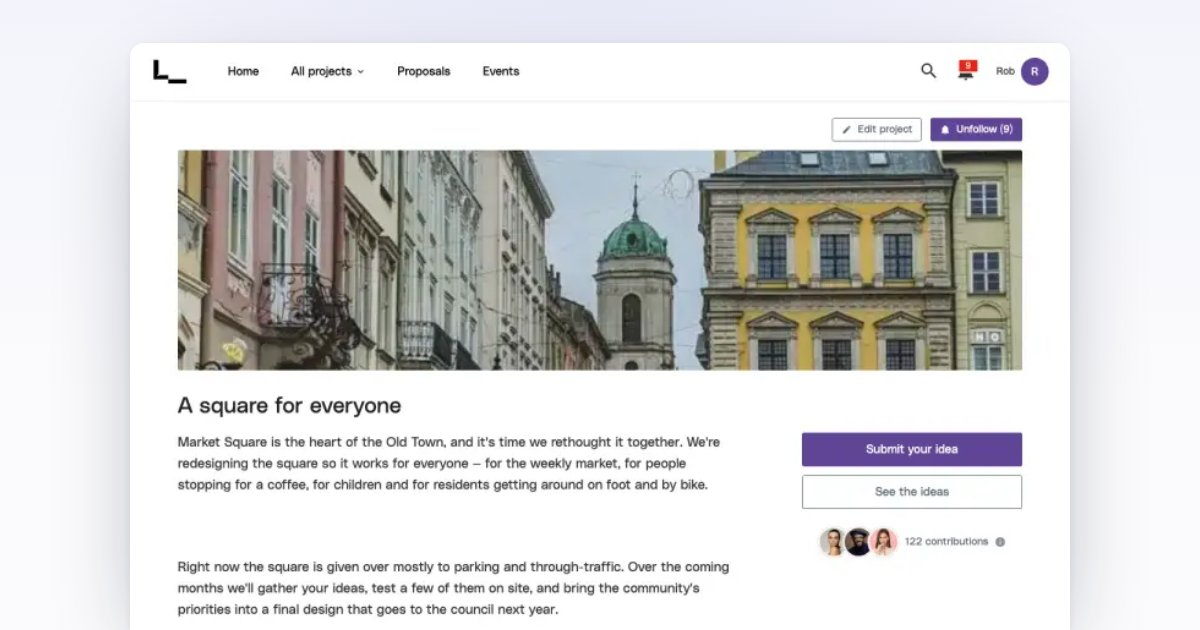
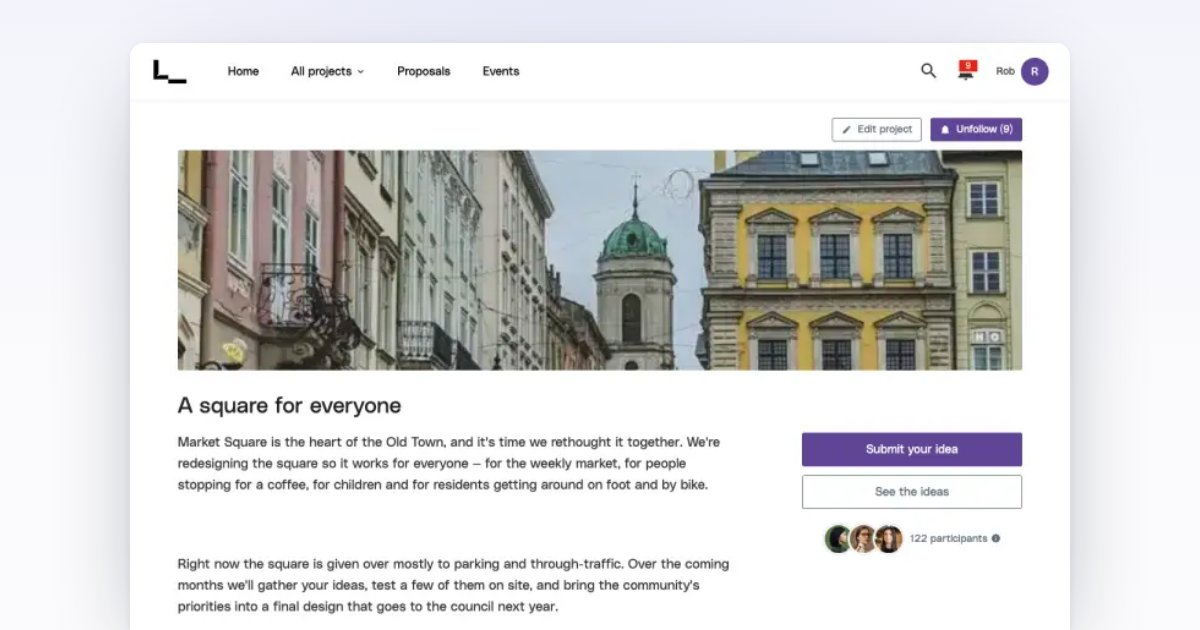
fix drift for good: converge project-page pbox onto the registry; per-widget INV-7; drop dead FO renderer
Root cause of the round-3 audit's D-1: pages/project-page hand-authored its hero
participation-box — a second copy of the widget — so when canonical changed (added
gv-pbox--dir-a, the "participants" label, cb-pbox__info) the copy silently drifted to
"122 contributions" / no --dir-a / gv-pinfo. Fix is to consume the single source of
truth so it CAN'T drift:

- project-page hero pbox now renders via GVWidgets.project.foBlock('participation-box', …)
  with the project's two actions + count as the model. Method buttons keep the page's
  #ideas anchors via a new additive `href` on pbBtn (default '#', so verify:all is
  byte-identical — 125 green · 11 red · 17 skipped, unchanged).
- INV-7 (lint) is now PER-WIDGET: each content-widget signature must have its registry
  type consumed; a signature present but unconsumed warns — catching the partial-
  convergence gap the old binary check missed (it passed any page with ≥1 GVWidgets ref).
  gv-stepper/timeline excluded (the phase ribbon legitimately reuses the primitive).
- back-office-test: deleted the dead phoneFO()/phoneBuilt() (the old hand-built FO
  preview incl. the "Be the first to take part" markup — no call sites; the phone is the
  canonical-renderer iframe) and fixed two stale comments. v3 untouched (its phoneFO is
  the live pre-seed fallback).

Canonical govocal-widgets.js re-synced to both prototype copies (INV-1). Lint ✓,
verify:all unchanged, project-page re-shot. 0 console errors on every surface.

Changed region(s): [[0.1542, 0.8746, 0.6167, 0.9952], [0.6783, 0.8143, 0.8325, 0.9048]]

diff --git a/parallel-participation/prototypes/back-office-test/index.html b/parallel-participation/prototypes/back-office-test/index.html
@@ -4414,149 +4414,6 @@
   const _timelineCardOriginal = null;
   const _activitiesCardOriginal = null;
 
-  // ── Phone preview = a real GoVocal mobile FRONT-OFFICE project page, built from the
-  //    canonical gv-* components (hero, gv-title, gv-participants/gv-avatars, gv-btn CTA,
-  //    gv-projdesc, gv-accordion, gv-stepper phases, gv-event-card), themed via ?theme=.
-  //    'empty' = ghost build-it placeholders; 'few'/'complex' = light vs rich real project.
-  function phoneFO(state) {
-    const complex = state === 'complex';
-    const acc = (q, a, open) => `<details class="gv-acc__item"${open ? ' open' : ''} onclick="event.stopPropagation()">
-        <summary class="gv-acc__head"><span class="gv-acc__q">${q}</span><span class="gv-acc__chev" data-gv-icon="chevron-right" aria-hidden="true"></span></summary>
-        <div class="gv-acc__body"><p>${a}</p></div>
-      </details>`;
-    const ev = (m, d, title, time, place, icon, regs, img) => `<article class="gv-event-card pp-fo__event">
-        <div class="gv-event-card__media pp-fo__evmedia">
-          <img src="assets/img/${img}" alt="" loading="lazy" />
-          <span class="gv-event-card__date"><span class="m">${m}</span><span class="d">${d}</span><span class="y">2026</span></span>
-        </div>
-        <div class="gv-event-card__body">
-          <h3 class="gv-event-card__title"><a href="#">${title}</a></h3>
-          <div class="gv-event-card__meta">
-            <p class="gv-event-card__row"><span data-gv-icon="clock" aria-hidden="true"></span> ${time}</p>
-            <p class="gv-event-card__row"><span data-gv-icon="${icon}" aria-hidden="true"></span> ${place}</p>
-            <p class="gv-event-card__row"><span data-gv-icon="user" aria-hidden="true"></span> ${regs} registrants</p>
-          </div>
-          <a class="gv-btn primary full" href="#">Register</a>
-        </div>
-      </article>`;
-    // Idea card = canonical .gv-ideacard with the ideation reaction foot (vote up/down +
-    // comments), same markup as the real project-page ideation feed.
-    const idea = (title, author, time, excerpt, up, down, comments, img) => {
-      const initials = author.split(' ').map((w) => w[0]).slice(0, 2).join('');
-      const thumb = img
-        ? `<div class="gv-ideacard__thumb"><img src="assets/img/${img}" alt="" loading="lazy" /></div>`
-        : `<div class="gv-ideacard__thumb"><span data-gv-icon="vote-up" aria-hidden="true"></span></div>`;
-      return `<article class="gv-ideacard e2e-idea-card">
-        ${thumb}
-        <div class="gv-ideacard__body">
-          <h3 class="gv-ideacard__title"><a href="#" onclick="event.stopPropagation()">${title}</a></h3>
-          <div class="gv-ideacard__head">
-            <span class="gv-ideacard__avatar" aria-hidden="true">${initials}</span>
-            <div>
-              <div class="gv-ideacard__meta"><span class="gv-ideacard__author">${author}</span><span class="gv-ideacard__sep" aria-hidden="true">&bull;</span><span class="gv-ideacard__time">${time}</span></div>
-              <p class="gv-ideacard__excerpt">${excerpt}</p>
-            </div>
-          </div>
-          <footer class="gv-ideacard__foot">
-            <div class="gv-react">
-              <button class="gv-react__btn" type="button" aria-label="Like" onclick="event.stopPropagation()"><span data-gv-icon="vote-up" aria-hidden="true"></span></button>
-              <span class="gv-react__count">${up}</span>
-              <button class="gv-react__btn" type="button" aria-label="Dislike" onclick="event.stopPropagation()"><span data-gv-icon="vote-down" aria-hidden="true"></span></button>
-              <span class="gv-react__count">${down}</span>
-            </div>
-            <span class="gv-react__comment"><span data-gv-icon="comments" aria-hidden="true"></span> ${comments}</span>
-          </footer>
-        </div>
-      </article>`;
-    };
-    const ideas = [
-      idea('Protected cycle lane the length of Meridian Avenue', 'Daan Verhoeven', '2 days ago', 'The painted lane just stops at the junction and it feels unsafe. A kerb-separated lane would let kids ride to school.', 312, 18, 24, 'street-trees.webp'),
-      idea('Shade and benches in Market Square', 'Amara Okonkwo', '4 days ago', 'The square bakes in summer with nowhere to sit. A few trees and benches would make it usable again.', 287, 9, 16, 'square.webp'),
-      idea('Drop the limit to 30 around all schools', 'Liam Fitzgerald', '5 days ago', 'Cars still take the school streets too fast at pickup. A consistent 30 zone with clear signs would help.', 264, 31, 41, ''),
-      idea('Late-night buses on the western routes', 'Sofia Marchetti', '1 week ago', 'Shift workers and students have no way home after 23:00. Even an hourly night service would change that.', 198, 12, 19, ''),
-      idea('Secure covered bike parking at the station', 'Noah Bergström', '1 week ago', 'People won\'t cycle to the station if their bikes get stripped. Lockable, covered racks would fix it.', 176, 7, 11, 'meeting.webp'),
-      idea('Pedestrianise the old town on weekends', 'Priya Nair', '2 weeks ago', 'Saturday markets and café terraces would thrive without through-traffic. Trial it for a summer first.', 154, 28, 33, 'workshop.webp'),
-    ].join('');
-    const phaseData = complex
-      ? [['Pre-survey', '1–15 May', 'Survey'], ['Collect ideas', '20 May – 10 Jun', 'Ideation'], ['What we heard', '11–25 Jun', 'Information'], ['Community vote', '26 Jun – 12 Jul', 'Voting'], ['Common ground', '13–27 Jul', 'Common ground']]
-      : [['Collect ideas', '20 May – 10 Jun', 'Ideation'], ['What we heard', '11–25 Jun', 'Information']];
-    const current = complex ? 1 : 0;
-    const cur = phaseData[current];
-    const stepper = phaseData.map((p, i) =>
-      `<button class="gv-phase${i === current ? ' current' : ''}" type="button"><span class="gv-pstep">${i + 1}</span><span class="gv-phase__label">${p[0]}</span></button>`).join('');
-
-    return `
-      <div class="pp-fo">
-        <div class="pp-fo__banner pp-edit" data-edit="hero"><img src="assets/img/${complex ? 'square' : 'street-trees'}.webp" alt="" loading="lazy" /><button class="gv-btn primary size-s pp-fo__follow" type="button" aria-pressed="true" onclick="event.stopPropagation();var on=this.getAttribute('aria-pressed')!=='true';this.setAttribute('aria-pressed',String(on));this.querySelector('.pp-fo__follow-lbl').textContent=on?'Following (9)':'Follow (8)';"><span data-gv-icon="notification" aria-hidden="true"></span> <span class="pp-fo__follow-lbl">Following (9)</span></button></div>
-        <div class="pp-fo__pad">
-          <!-- Edit zones mirror the content-builder WIDGETS one-to-one (data-edit =
-               the builder's data-widget): Title · Text · Participation Box ·
-               Info & accordions. No invented "category" eyebrow — the real title has
-               no subtitle and there's no such widget. -->
-          <div class="pp-edit" data-edit="title">
-            <h1 class="gv-title h1 pp-fo__title">${complex ? 'Reimagine Meridian 2030' : 'A greener Station Road'}</h1>
-          </div>
-          <div class="pp-edit" data-edit="text">
-            <p class="pp-fo__lead">${complex
-              ? 'Help shape how we move, cycle and gather across the city over the next four years. We\'re collecting ideas right now — add yours below, then back the ones you like best. The team reads every suggestion, groups similar ones, and the most-supported move to a community vote and into the final plan.'
-              : 'Help shape how we move, cycle and gather on Station Road. Take the short survey to tell us what works, what doesn\'t, and what you\'d change. Your answers go straight to the project team and shape the proposals we bring back to the neighbourhood.'}</p>
-          </div>
-          <!-- Participation box: CTA(s) first, participant avatars ALWAYS at the bottom
-               (same contract as the content-builder .cb-pbox = actions then people). -->
-          <div class="pp-fo__pbox pp-edit" data-edit="participation-box">
-            <div class="pp-fo__cta">
-              <a class="gv-btn primary full" href="#">${complex ? 'Vote on the shortlist' : 'Take the survey'}</a>
-              <a class="gv-btn secondary-outlined full" href="#">See the ideas</a>
-            </div>
-            <div class="gv-participants pp-fo__parts">
-              <span class="gv-avatars on-light" aria-hidden="true"><span class="av"></span><span class="av"></span><span class="av"></span></span>
-              <span class="gv-pcount">${complex ? '342' : '38'} participants</span>
-            </div>
-          </div>
-          <div class="pp-edit" data-edit="info-accordions"><div class="gv-accordion pp-fo__acc">
-            ${acc('How will my idea be used?', 'Every idea is read by the project team and grouped with similar suggestions. The most-supported ones move to the next phase.', true)}
-            ${complex ? acc('What can I suggest?', 'Anything within scope — seating, planting, traffic calming, lighting, cycle parking or how the space is used.', false) : ''}
-            ${complex ? acc('Who is running this project?', 'The City of Meridian engagement team, together with the mobility department.', false) : ''}
-          </div></div>
-        </div><!-- /.pp-fo__pad (top) -->
-
-        <!-- Participation bar HOME = above the timeline, in the content flow. The 0-height
-             anchor marks its inline position; updateStickyBar() pins the bar to the phone
-             footer once the user scrolls down to it, and releases it back inline at the top. -->
-        <div class="pp-fo__partbar-anchor" aria-hidden="true"></div>
-        <div class="gv-partbar pp-fo__partbar">
-          <div class="gv-partbar__inner">
-            <span class="gv-partbar__status">Open for participation</span>
-            <a class="gv-btn on-color" href="#">${complex ? 'Vote on the shortlist' : 'Take the survey'} <span data-gv-icon="arrow-right" aria-hidden="true"></span></a>
-          </div>
-        </div>
-
-        <div class="pp-fo__pad pp-fo__pad--grey">
-          <div class="pp-edit" data-edit="timeline">
-            <h2 class="gv-title h3 pp-fo__h2">Timeline</h2>
-            <div class="gv-stepper pp-fo__stepper">${stepper}</div>
-            <div class="pp-fo__phasecard">
-              <div class="pp-fo__phasecard-eyebrow">Current phase · ${current + 1} of ${phaseData.length}</div>
-              <h3 class="pp-fo__phasecard-title">${cur[0]}</h3>
-              <div class="pp-fo__phasecard-dates"><span data-gv-icon="clock" aria-hidden="true"></span> ${cur[1]} · ${cur[2]}</div>
-              <p class="pp-fo__phasecard-desc">Share your ideas for how we move, cycle and gather. Every suggestion is reviewed by the city team and shapes what comes next.</p>
-            </div>
-          </div>
-          <!-- Ideas collected this phase (Ideation method output). Canonical .gv-idealist
-               / .gv-ideacard — display content, not a builder widget, so no edit zone. -->
-          ${complex ? `<div class="pp-fo__ideas">
-            <h2 class="gv-title h3 pp-fo__h2">Ideas <span class="gv-pcount">6</span></h2>
-            <div class="gv-idealist">${ideas}</div>
-          </div>` : ''}
-          ${complex ? phoneExtras(window.ppHidden) : ''}
-          <div class="pp-edit" data-edit="events">
-            <h2 class="gv-title h3 pp-fo__h2">Upcoming events</h2>
-            ${ev('Jun', '14', 'Mobility town hall', '14 Jun · 19:00', 'Central Library', 'location-simple', '41', 'meeting.webp')}
-            ${complex ? ev('Jul', '02', 'Neighbourhood design workshop', '2 Jul · 18:00', 'Meridian Civic Hall', 'location-simple', '57', 'workshop.webp') : ''}
-          </div>
-        </div>
-      </div>`;
-  }
 
   // The FO phone preview lives inside the .gv-bo body, which remaps --gv-tenant-* to the
   // fixed back-office teal. Re-point the phone's tenant vars to the real CITY colours (set
@@ -4900,7 +4757,7 @@
     return '<div class="pp-fo"><div class="pp-fo__pad" style="padding-bottom:24px;">'
       // Header image — still a ghost (not configured yet).
       + '<div class="ghost-slot tall">' + ES_IMG + 'Add a header image</div>'
-      // Real project title (the project is created with one). Same markup as phoneFO.
+      // Real project title (the project is created with one) — the FO title block.
       + '<div class="pp-edit" data-edit="title" style="margin-top:18px;"><h1 class="gv-title h1 pp-fo__title">' + ES_REAL_TITLE + '</h1></div>'
       // Generic placeholder description that ships with every project — "participants",
       // not "residents", so it fits cities, organisations, or anyone running this. Uses the
@@ -5130,59 +4987,8 @@
       + '<button class="sec-add muted" onclick="setView(&#39;add-survey&#39;)">' + ES_PLUS + 'New survey</button>';
   }
 
-  // Phone preview built from the model — a real (if young) project page.
-  function phoneBuilt() {
-    const phases = window.ppBuilt.phases, extras = window.ppBuilt.extras;
-    if (!phases.length && !extras.length && !window.ppBuilt.contentTouched) return emptyPhone();
-    // Description zone: the tester's content-builder output if they edited it, else the
-    // generic placeholder lead that ships with a fresh project.
-    const descZone = (window.ppBuilt.contentTouched && window.ppBuilt.content)
-      ? '<div class="pp-edit" data-edit="text">' + window.ppBuilt.content + '</div>'
-      : '<p class="pp-fo__lead es-default-lead">Tell participants what this project is about and how they can take part. This placeholder text ships with every project — edit it to describe yours.</p>';
-    let ci = phases.findIndex((p) => p.status === 'live'); if (ci < 0) ci = 0;
-    const cur = phases[ci];
-    const stepper = phases.map((p, i) =>
-      '<button class="gv-phase' + (i === ci ? ' current' : '') + '" type="button"><span class="gv-pstep">' + (i + 1) + '</span><span class="gv-phase__label">' + ppEsc(p.name) + '</span></button>').join('');
-    // Participation box: the live phase (primary) plus any other active method — phases
-    // that are live, or surveys (always active) — as secondary CTAs, mirroring the
-    // content builder's participation-box (direction A: active methods as buttons).
-    const activeMethods = []
-      .concat(phases.filter((p) => p.status === 'live').map((p) => ({ cta: p.cta, primary: true })))
-      .concat(extras.map((e) => ({ cta: e.cta, primary: false })));
-    const pbox = activeMethods.length
-      ? '<div class="pp-fo__pbox pp-edit" data-edit="participation-box"><div class="pp-fo__cta">'
-        + activeMethods.map((a) => '<a class="gv-btn ' + (a.primary ? 'primary' : 'secondary-outlined') + ' full" href="#">' + ppEsc(a.cta) + '</a>').join('')
-        + '</div><div class="gv-participants pp-fo__parts" style="margin-top:10px;"><span class="gv-pcount es-default-lead">Be the first to take part</span></div></div>'
-      : '';
-    const timeline = phases.length
-      ? '<div class="pp-fo__pad pp-fo__pad--grey"><div class="pp-edit" data-edit="timeline">'
-        + '<h2 class="gv-title h3 pp-fo__h2">Timeline</h2>'
-        + '<div class="gv-stepper pp-fo__stepper">' + stepper + '</div>'
-        + '<div class="pp-fo__phasecard"><div class="pp-fo__phasecard-eyebrow">Current phase · ' + (ci + 1) + ' of ' + phases.length + '</div>'
-        + '<h3 class="pp-fo__phasecard-title">' + ppEsc(cur.name) + '</h3>'
-        + '<div class="pp-fo__phasecard-dates"><span data-gv-icon="clock" aria-hidden="true"></span> Open now · ' + ppEsc(cur.label) + '</div></div>'
-        + '</div></div>'
-      : '';
-    const extrasHtml = extras.length
-      ? '<div class="pp-fo__pad"><h2 class="gv-title h3 pp-fo__h2">Other ways to take part</h2>'
-        + extras.map((e) =>
-          '<div class="gv-extra-survey gv-extra-survey--card" style="margin-top:12px;"><span class="gv-extra-survey__tag"><span class="gv-icon" data-gv-icon="survey"></span> Survey</span>'
-          + '<h3 class="gv-extra-survey__title">' + ppEsc(e.title) + '</h3>'
-          + '<p class="gv-extra-survey__desc">Runs alongside the project — open to everyone.</p>'
-          + '<a class="gv-btn secondary-outlined full" href="#">' + ppEsc(e.cta) + '</a></div>').join('')
-        + '</div>'
-      : '';
-    const heroSrc = window.ppHeroSrc ? window.ppHeroSrc() : '';
-    const heroHtml = heroSrc
-      ? '<div class="pp-fo__banner pp-edit" data-edit="hero" style="border-radius:10px;overflow:hidden;"><img src="' + heroSrc + '" alt="" style="width:100%;display:block;" /></div>'
-      : '<div class="ghost-slot tall">' + ES_IMG + 'Add a header image</div>';
-    return '<div class="pp-fo"><div class="pp-fo__pad" style="padding-bottom:20px;">'
-      + heroHtml
-      + '<div class="pp-edit" data-edit="title" style="margin-top:18px;"><h1 class="gv-title h1 pp-fo__title">' + ES_REAL_TITLE + '</h1></div>'
-      + descZone
-      + pbox
-      + '</div>' + timeline + extrasHtml + '</div>';
-  }
+  // (phoneFO/phoneBuilt — the old hand-built FO preview — removed: the phone is now
+  //  an iframe of the canonical shared renderer pp-page.html; see renderPhone.)
 
   // The project banner the tester set in the content builder (data URL or ghost).
   window.ppHeroSrc = function () {
@@ -5325,9 +5131,9 @@
   setProjectState('empty', null);
 
   // ── Full front-office project page ────────────────────────────────────────
-  // The Eye icon (top bar + content builder) opens the live FO project page. It
-  // renders the SAME phoneFO(state) body as the phone preview, so the resident-
-  // facing page and the editor preview never drift. "Edit project" returns here.
+  // The Eye icon (top bar + content builder) opens the live FO project page, driven by
+  // the same canonical shared renderer (pp-page.html / GVWidgets) as the phone preview,
+  // so the resident page and the editor preview never drift. "Edit project" returns here.
   function syncFOTheme() {
     const v = document.getElementById('view-fo');
     if (!v) return;

diff --git a/pages/project-page/index.html b/pages/project-page/index.html
@@ -220,24 +220,11 @@
         <div class="gv-projdesc pp-intro">
           <p>Market Square is the heart of the Old Town, and it's time we rethought it together. We're <strong>redesigning the square so it works for everyone</strong> — for the weekly market, for people stopping for a coffee, for children and for residents getting around on foot and by bike.</p>
         </div>
-        <div class="pp-cta">
-          <!-- Participation box — canonical .gv-pbox (mirrors the Content Builder widget) -->
-          <div class="gv-pbox">
-            <div class="gv-pbox__actions">
-              <a class="gv-btn primary full" href="#ideas">Submit your idea</a>
-              <a class="gv-btn secondary-outlined full" href="#ideas">See the ideas</a>
-            </div>
-            <div class="gv-participants gv-pbox__people" style="margin-top:4px;">
-              <span class="gv-avatars on-light" aria-hidden="true">
-                <span class="av"></span>
-                <span class="av"></span>
-                <span class="av"></span>
-              </span>
-              <span class="gv-pcount">122 contributions</span>
-              <span class="gv-icon gv-pinfo" data-gv-icon="info-solid" aria-hidden="true" title="Real-time contribution count."></span>
-            </div>
-          </div>
-        </div>
+        <!-- Participation box — rendered from the canonical registry
+             (GVWidgets.project 'participation-box') so it can NEVER drift from the
+             widget. The project's two actions + participant count are passed as the
+             model; method buttons carry the page's #ideas anchors (see script). -->
+        <div class="pp-cta" id="pp-pbox-mount"></div>
       </div>
 
       <!-- Row 2 — rest of the description · (narrow column intentionally empty) -->
@@ -663,6 +650,16 @@
     window.addEventListener('DOMContentLoaded', function () {
       if (!window.GVWidgets || !GVWidgets.project) return;
       var P = GVWidgets.project;
+      // Participation box — canonical widget; the project's two actions + participant
+      // count as the model. href on each method keeps the page's #ideas anchors.
+      var pm = document.getElementById('pp-pbox-mount');
+      if (pm) pm.innerHTML = P.foBlock('participation-box', { pbox: {
+        showParticipants: true, count: '122 participants',
+        methods: [
+          { type: 'ideation', cta: 'Submit your idea', href: '#ideas', status: 'active', current: true, visible: true, timeline: true },
+          { type: 'ideation', cta: 'See the ideas', href: '#ideas', status: 'active', visible: true }
+        ]
+      } });
       // Extra survey — canonical card with this project's name/desc (data override).
       var sm = document.getElementById('pp-survey-mount');
       if (sm) sm.innerHTML = P.foBlock('extra-surveys', { survey: {
@@ -684,6 +681,7 @@
             { icon: 'user', text: '21 registrants' } ] }
       ] });
       if (window.GVIcons) GVIcons.render(document.body);
+      if (window.GVAvatars) GVAvatars.fill(document.body);
     });
   </script>
 </body>

diff --git a/parallel-participation/prototypes/back-office-test/assets/govocal-widgets.js b/parallel-participation/prototypes/back-office-test/assets/govocal-widgets.js
@@ -523,7 +523,7 @@ window.GVWidgets = (function () {
     function pbType(m)  { return '<span class="pbm-type">' + (PBOX_TYPES[m.type] || m.type) + '</span>'; }
     function pbPill(m)  { var s = PBOX_STATUS[m.status] || PBOX_STATUS.active; return '<span class="gv-statuspill ' + s[0] + '">' + s[1] + '</span>'; }
     function pbDates(m) { return '<span class="pbm-dates"><span class="gv-icon" data-gv-icon="calendar"></span>' + m.dates + '</span>'; }
-    function pbBtn(m, style, dis) { return '<a class="gv-btn full ' + style + '" href="#"' + (dis ? ' aria-disabled="true"' : '') + '>' + m.cta + '</a>'; }
+    function pbBtn(m, style, dis) { return '<a class="gv-btn full ' + style + '" href="' + (m.href || '#') + '"' + (dis ? ' aria-disabled="true"' : '') + '>' + m.cta + '</a>'; }
     function pbActive(m) { return m.status === 'active'; }
     function pbOrder(a, b) {                              // current first, then active → upcoming → past
       if (!!a.current !== !!b.current) return a.current ? -1 : 1;

diff --git a/parallel-participation/prototypes/parallel-editor-builder-v3/assets/govocal-widgets.js b/parallel-participation/prototypes/parallel-editor-builder-v3/assets/govocal-widgets.js
@@ -523,7 +523,7 @@ window.GVWidgets = (function () {
     function pbType(m)  { return '<span class="pbm-type">' + (PBOX_TYPES[m.type] || m.type) + '</span>'; }
     function pbPill(m)  { var s = PBOX_STATUS[m.status] || PBOX_STATUS.active; return '<span class="gv-statuspill ' + s[0] + '">' + s[1] + '</span>'; }
     function pbDates(m) { return '<span class="pbm-dates"><span class="gv-icon" data-gv-icon="calendar"></span>' + m.dates + '</span>'; }
-    function pbBtn(m, style, dis) { return '<a class="gv-btn full ' + style + '" href="#"' + (dis ? ' aria-disabled="true"' : '') + '>' + m.cta + '</a>'; }
+    function pbBtn(m, style, dis) { return '<a class="gv-btn full ' + style + '" href="' + (m.href || '#') + '"' + (dis ? ' aria-disabled="true"' : '') + '>' + m.cta + '</a>'; }
     function pbActive(m) { return m.status === 'active'; }
     function pbOrder(a, b) {                              // current first, then active → upcoming → past
       if (!!a.current !== !!b.current) return a.current ? -1 : 1;

diff --git a/skills/govocal-ui/govocal-widgets.js b/skills/govocal-ui/govocal-widgets.js
@@ -523,7 +523,7 @@ window.GVWidgets = (function () {
     function pbType(m)  { return '<span class="pbm-type">' + (PBOX_TYPES[m.type] || m.type) + '</span>'; }
     function pbPill(m)  { var s = PBOX_STATUS[m.status] || PBOX_STATUS.active; return '<span class="gv-statuspill ' + s[0] + '">' + s[1] + '</span>'; }
     function pbDates(m) { return '<span class="pbm-dates"><span class="gv-icon" data-gv-icon="calendar"></span>' + m.dates + '</span>'; }
-    function pbBtn(m, style, dis) { return '<a class="gv-btn full ' + style + '" href="#"' + (dis ? ' aria-disabled="true"' : '') + '>' + m.cta + '</a>'; }
+    function pbBtn(m, style, dis) { return '<a class="gv-btn full ' + style + '" href="' + (m.href || '#') + '"' + (dis ? ' aria-disabled="true"' : '') + '>' + m.cta + '</a>'; }
     function pbActive(m) { return m.status === 'active'; }
     function pbOrder(a, b) {                              // current first, then active → upcoming → past
       if (!!a.current !== !!b.current) return a.current ? -1 : 1;
